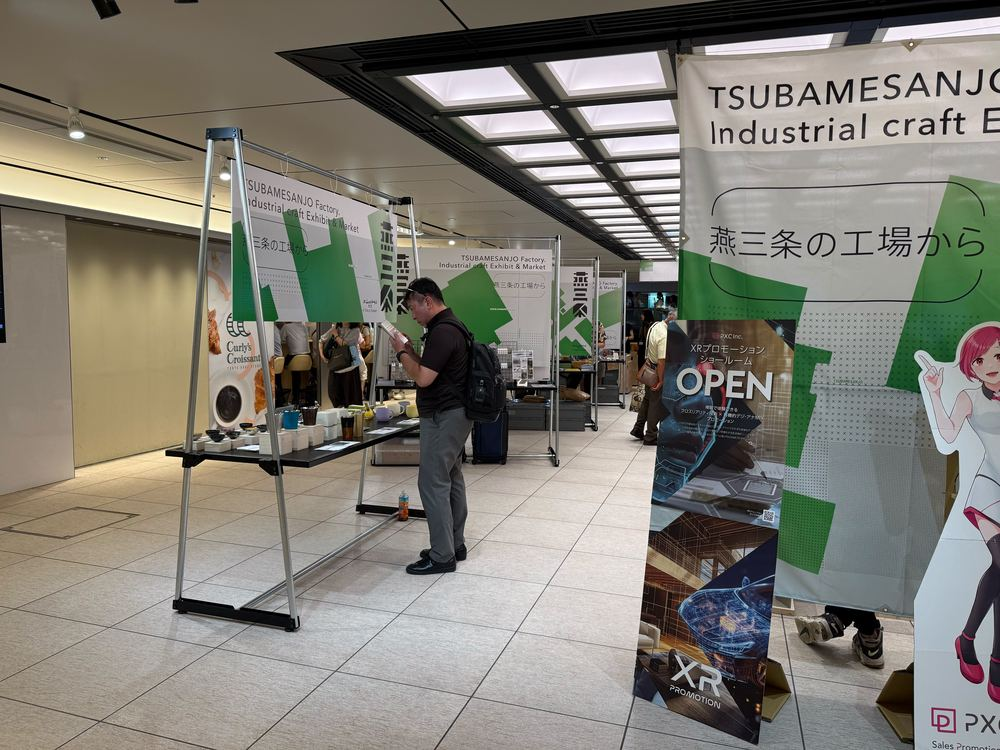
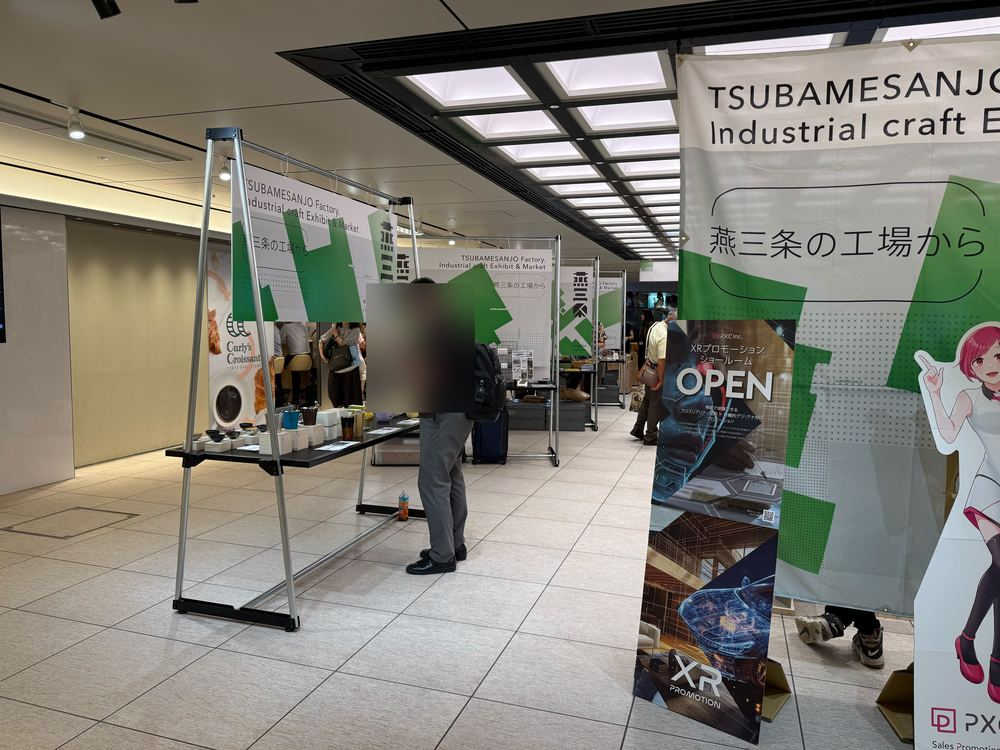
Blur identifiable faces in event photos, drop Nippon Steel from the LP
- Re-process all five event photos to blur clearly visible faces for
  privacy, keeping the rest of each image untouched.
- Remove Nippon Steel entirely from the site per follow-up request
  (previously kept as text-only; now dropped from the pick-up
  exhibitor cards, the 技術展示 zone card, and the full exhibitor list).

Claude-Session: https://claude.ai/code/session_01YXakf9L2fjwv2f7a5ytL6q

Changed region(s): [[0.341, 0.368, 0.496, 0.552]]

diff --git a/index.html b/index.html
@@ -446,7 +446,7 @@
       <div class="z-card">
         <div class="head c-navy">技術展示</div>
         <div class="body">プレス・溶接・研磨など、こうばの技術そのものを展示。製造依頼や商談の相談はこちらから。
-          <p class="zone-co">出展：後藤鉄工所／日本製鉄</p>
+          <p class="zone-co">出展：後藤鉄工所</p>
         </div>
       </div>
     </div>
@@ -502,13 +502,8 @@
         <h3>株式会社アルチザン</h3>
         <p>燕市の金属加工、高岡の伝統着色技法、山中漆器など、日本各地の手仕事を掛け合わせ、日常に静かな豊かさをもたらすものづくりを行っています。</p>
       </div>
-      <div class="e-card">
-        <h3>日本製鉄株式会社</h3>
-        <p>国内最大の鉄鋼メーカー。商品の差別化に貢献する意匠性鋼板「デザイニングメタル」（チタン・表面処理鋼板・ステンレス等）を展示紹介します。</p>
-      </div>
     </div>
     <p class="e-note">ほかにも出展企業が決まり次第、順次掲載します。</p>
-    <!-- TODO: 掲載可否は各社に確認のうえ公開（特に日本製鉄はSNS掲載不可回答あり）。追加企業はカードを複製して追記 -->
 
     <div class="exh-list">
       <p style="font-size:.86rem;color:var(--ink-soft);font-weight:700;margin-bottom:1rem">出展企業一覧</p>
@@ -563,7 +558,6 @@
         <span class="zone-label" style="background:#24304A;color:#fff">技術展示</span>
         <div class="exh-chips">
           <span class="exh-chip">後藤鉄工所製作所</span>
-          <span class="exh-chip">日本製鉄株式会社</span>
         </div>
       </div>
 
